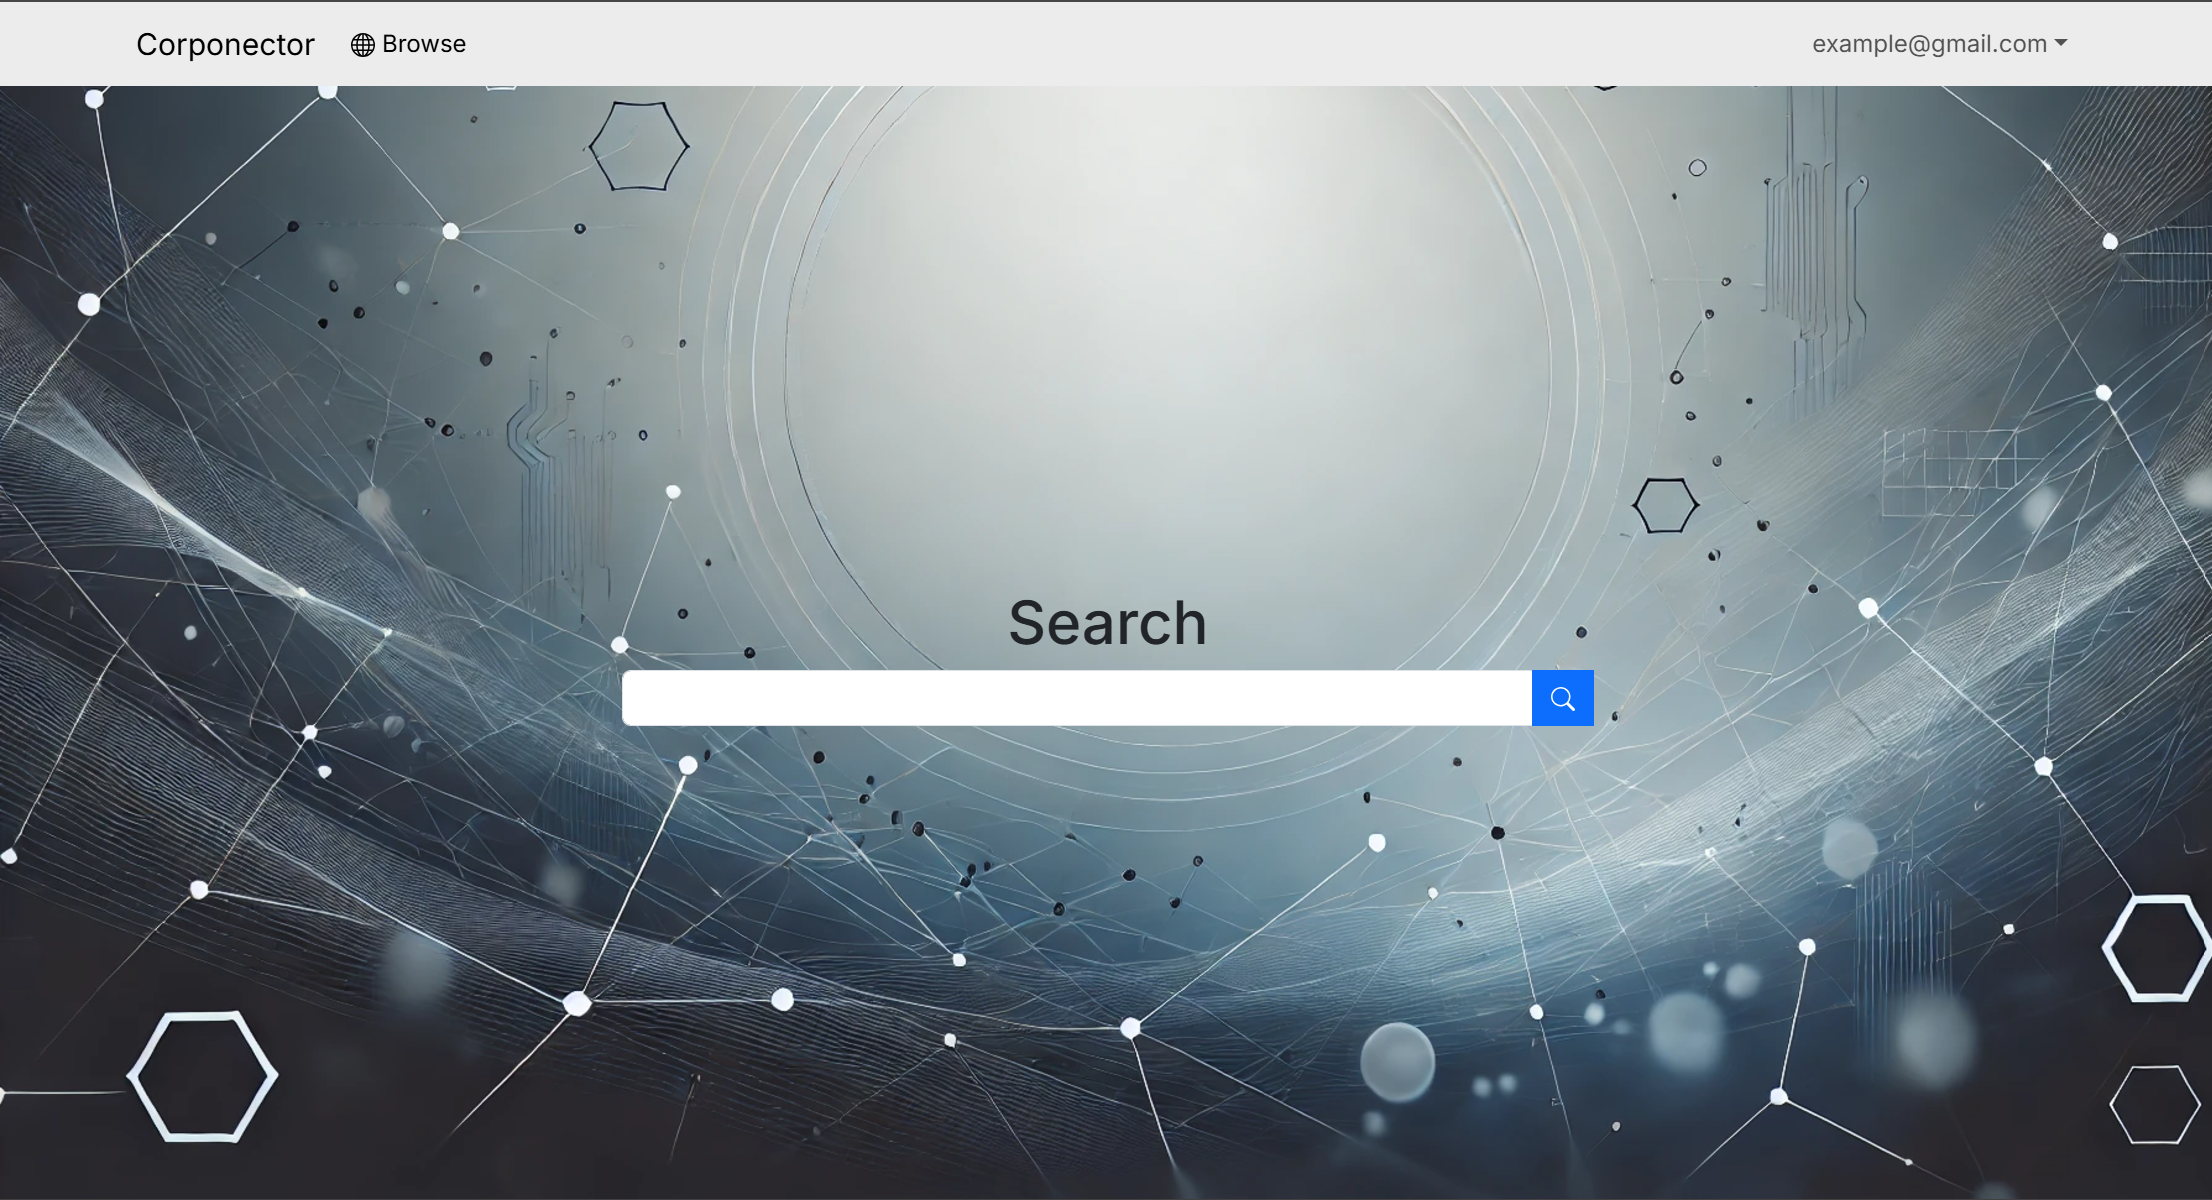
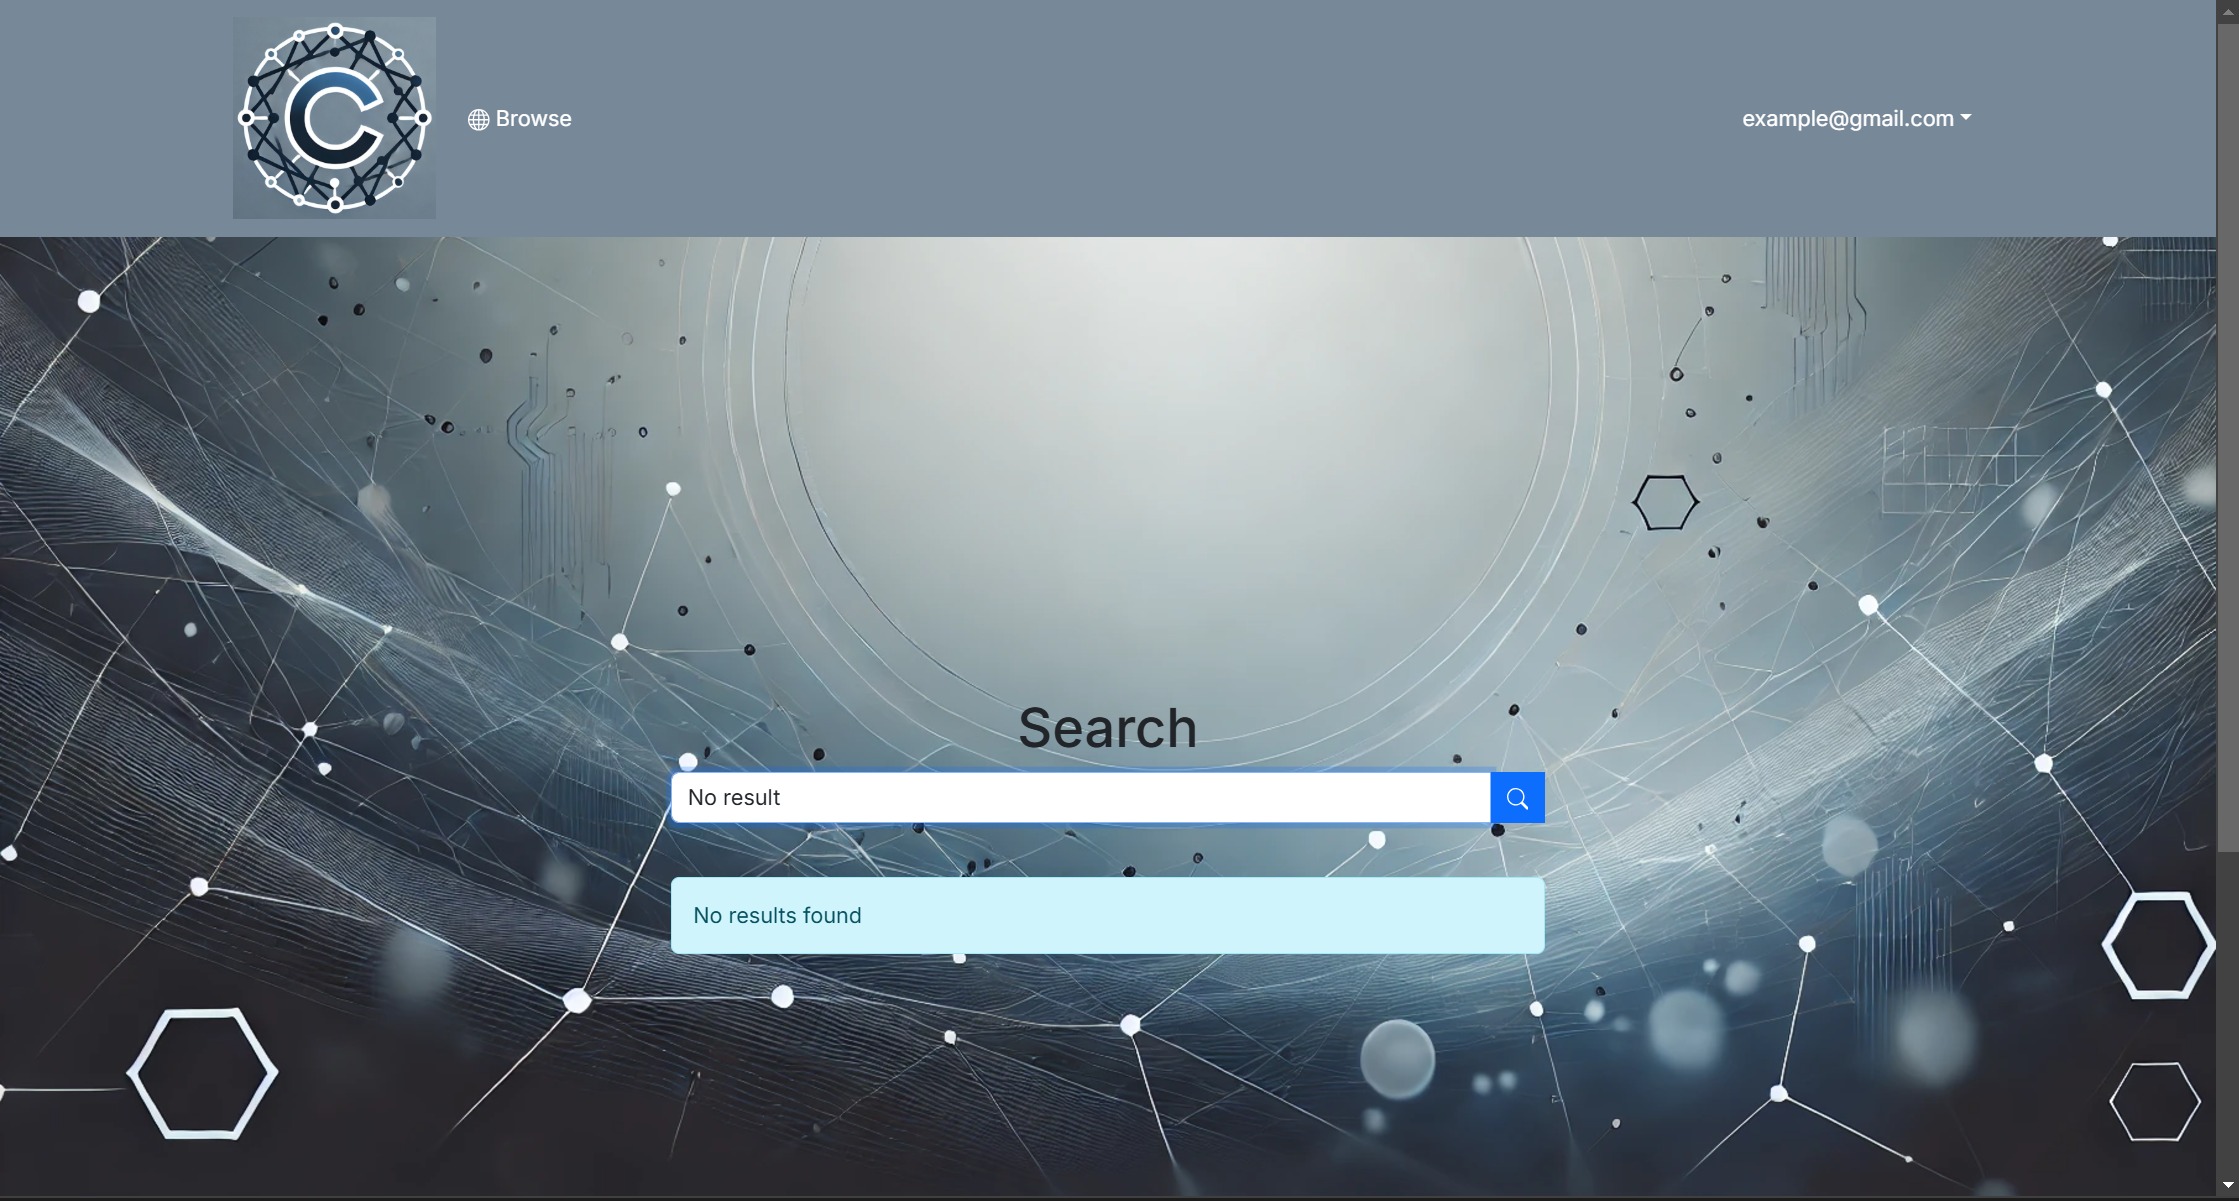
Notsogood

diff --git a/src/app/globals.css b/src/app/globals.css
@@ -1,37 +1,45 @@
+:root {
+  --nat-navbar-bg: gray;
+  --nat-navbar-color: gray;
+  --nat-navbar-text-highlight: white;
+  --nat-navbar-highlight-text: white;
+  --nat-navbar-highlight-bg: gray;
+  --nat-navbar-bg-rgb: 119, 136, 153;
+  --nat-navbar-text-color: white;
+}
+
 html,
 body {
   --bs-dark: var(--nat-navbar-bg);
   --bs-light-rgb: 236, 236, 236;
-  color: var(--nat-body-text-color); 
+  --bs-dark-rgb: var(--nat-navbar-bg-rgb);
   box-sizing: border-box;
   height: 100%;
   padding: 0;
   margin: 0;
-  background: fixed center url(../../public/corponector-background.png);
+  background: fixed center url('/corponector-background.png');
   background-size: cover;
 }
 
-.wrapper {
-  box-sizing: border-box;
-  min-height: 100%;
-  display: flex;
-  flex-direction: column;
+body .navbar {
+  --bs-navbar-active-color: var(--nat-navbar-highlight-text);
+  --bs-navbar-brand-color: var(--nat-navbar-text-color);
+  --bs-navbar-brand-hover-color: var(--nat-navbar-highlight-text);
+  --bs-navbar-color: var(--nat-navbar-text-color);
+  --bs-navbar-hover-color: var(--nat-navbar-highlight-text);
 }
 
-
-.container {
-  text-align: center;
+footer,
+footer a {
+  color: var(--nat-navbar-text-color);
 }
 
-.form {
-  margin-bottom: 20px;
+.semi-transparent {
+  background-color: rgba(255, 255, 255, 0.25);
+  height: 100%;
 }
 
-.formGroup {
-  margin-bottom: 10px;
+.edit-container {
+  width: 50px !important;
 }
 
-.results {
-  width: 100%;
-  max-width: 600px;
-}

diff --git a/src/components/Navbar.tsx b/src/components/Navbar.tsx
@@ -4,7 +4,7 @@
 
 import { useSession } from 'next-auth/react';
 import { usePathname } from 'next/navigation';
-import { Container, Nav, Navbar, NavDropdown } from 'react-bootstrap';
+import { Container, Nav, Navbar, NavDropdown, Image } from 'react-bootstrap';
 import { BoxArrowRight, Lock, PersonFill, PersonPlusFill, Globe } from 'react-bootstrap-icons';
 
 const NavBar: React.FC = () => {
@@ -14,9 +14,11 @@ const NavBar: React.FC = () => {
   const role = userWithRole?.randomKey;
   const pathName = usePathname();
   return (
-    <Navbar bg="light" expand="lg">
+    <Navbar bg="dark" expand="lg">
       <Container>
-        <Navbar.Brand href="/">Corponector</Navbar.Brand>
+        <Navbar.Brand href="/">
+          <Image src="../corponector.png" alt="Corponector Logo" width="150" height="150" />
+        </Navbar.Brand>
         <Navbar.Toggle aria-controls="basic-navbar-nav" />
         <Navbar.Collapse id="basic-navbar-nav">
           <Nav className="me-auto justify-content-start">

diff --git a/src/components/Footer.tsx b/src/components/Footer.tsx
@@ -2,16 +2,14 @@ import { Col, Container } from 'react-bootstrap';
 
 /** The Footer appears at the bottom of every page. Rendered by the App Layout component. */
 const Footer = () => (
-  <footer className="mt-auto py-3 bg-light">
+  <footer className="mt-auto py-5 bg-dark">
     <Container>
       <Col className="text-center">
         Department of Information and Computer Sciences
         <br />
-        University of Hawaii
+        University of Hawaii at Manoa
         <br />
-        Honolulu, HI 96822
-        <br />
-        <a href="http://ics-software-engineering.github.io/nextjs-application-template">Template Home Page</a>
+        <a href="https://corponector.github.io/">About Us</a>
       </Col>
     </Container>
   </footer>
